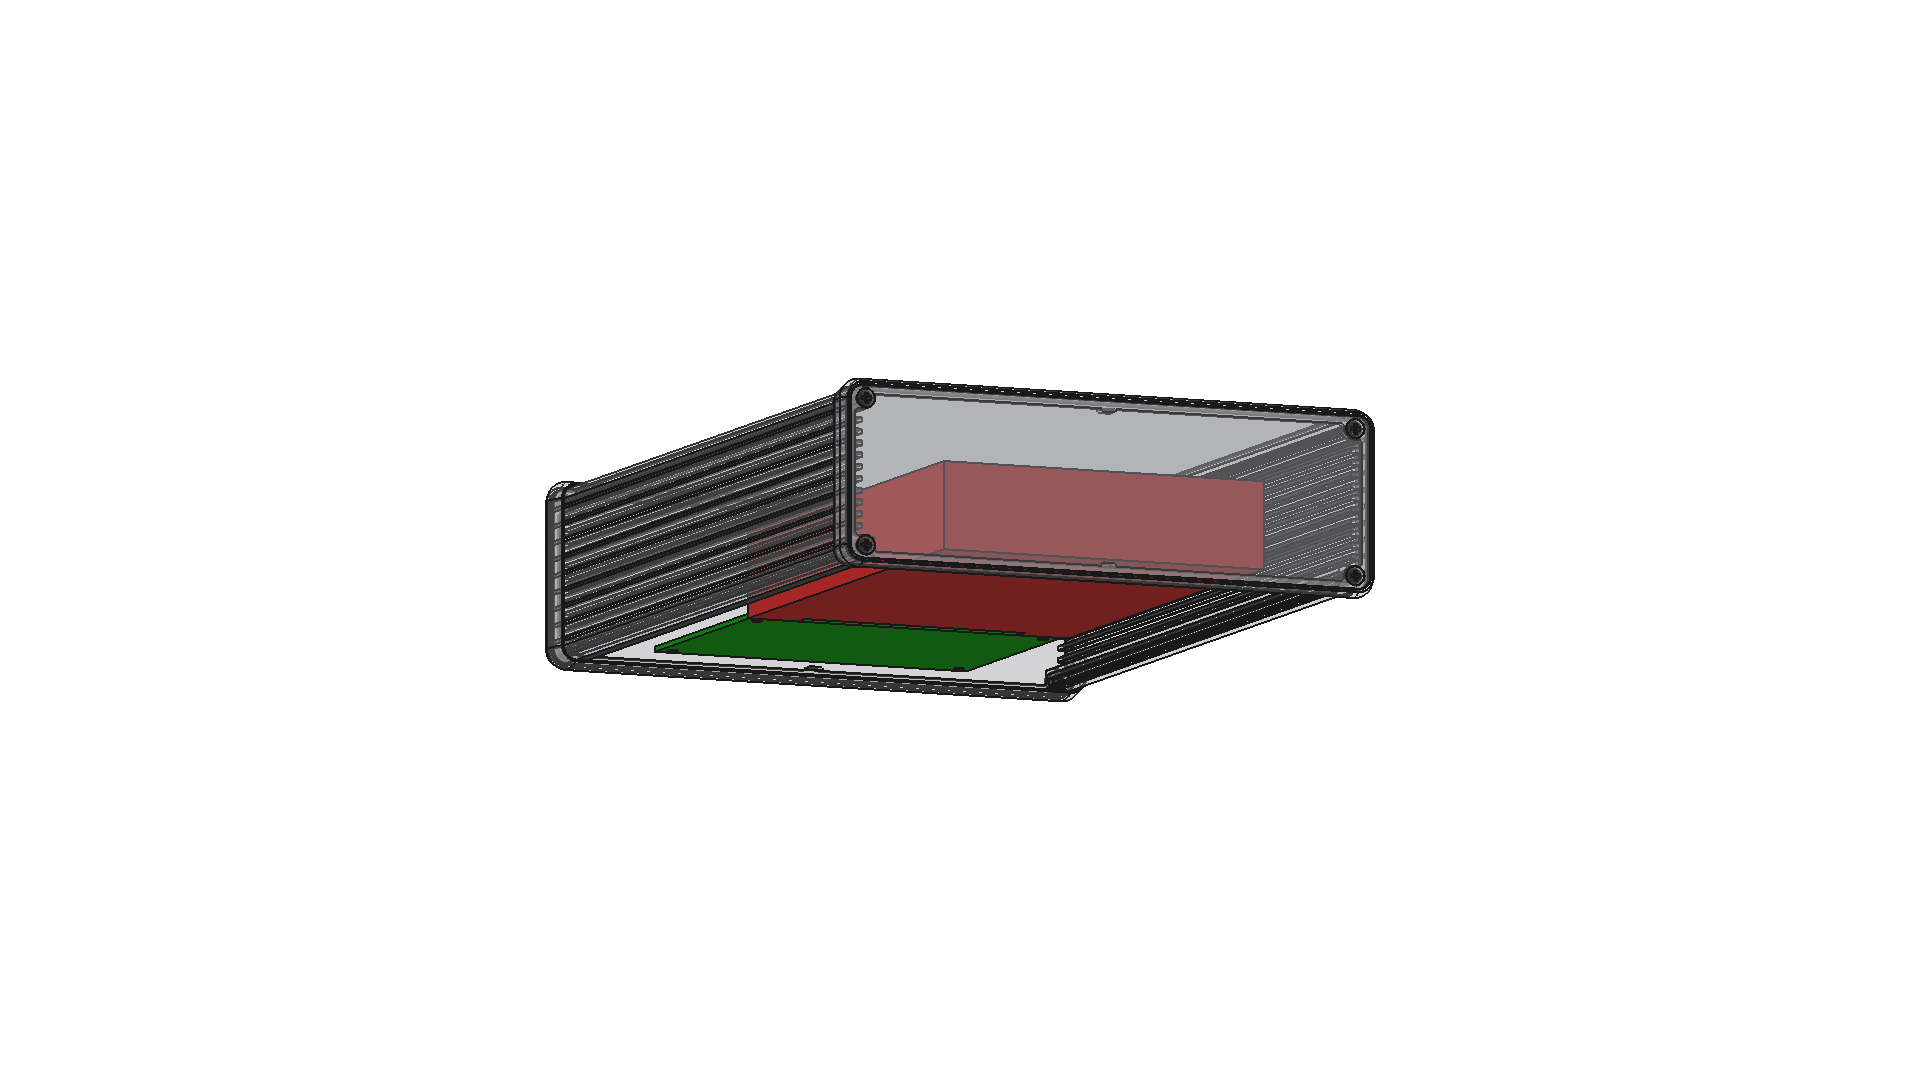
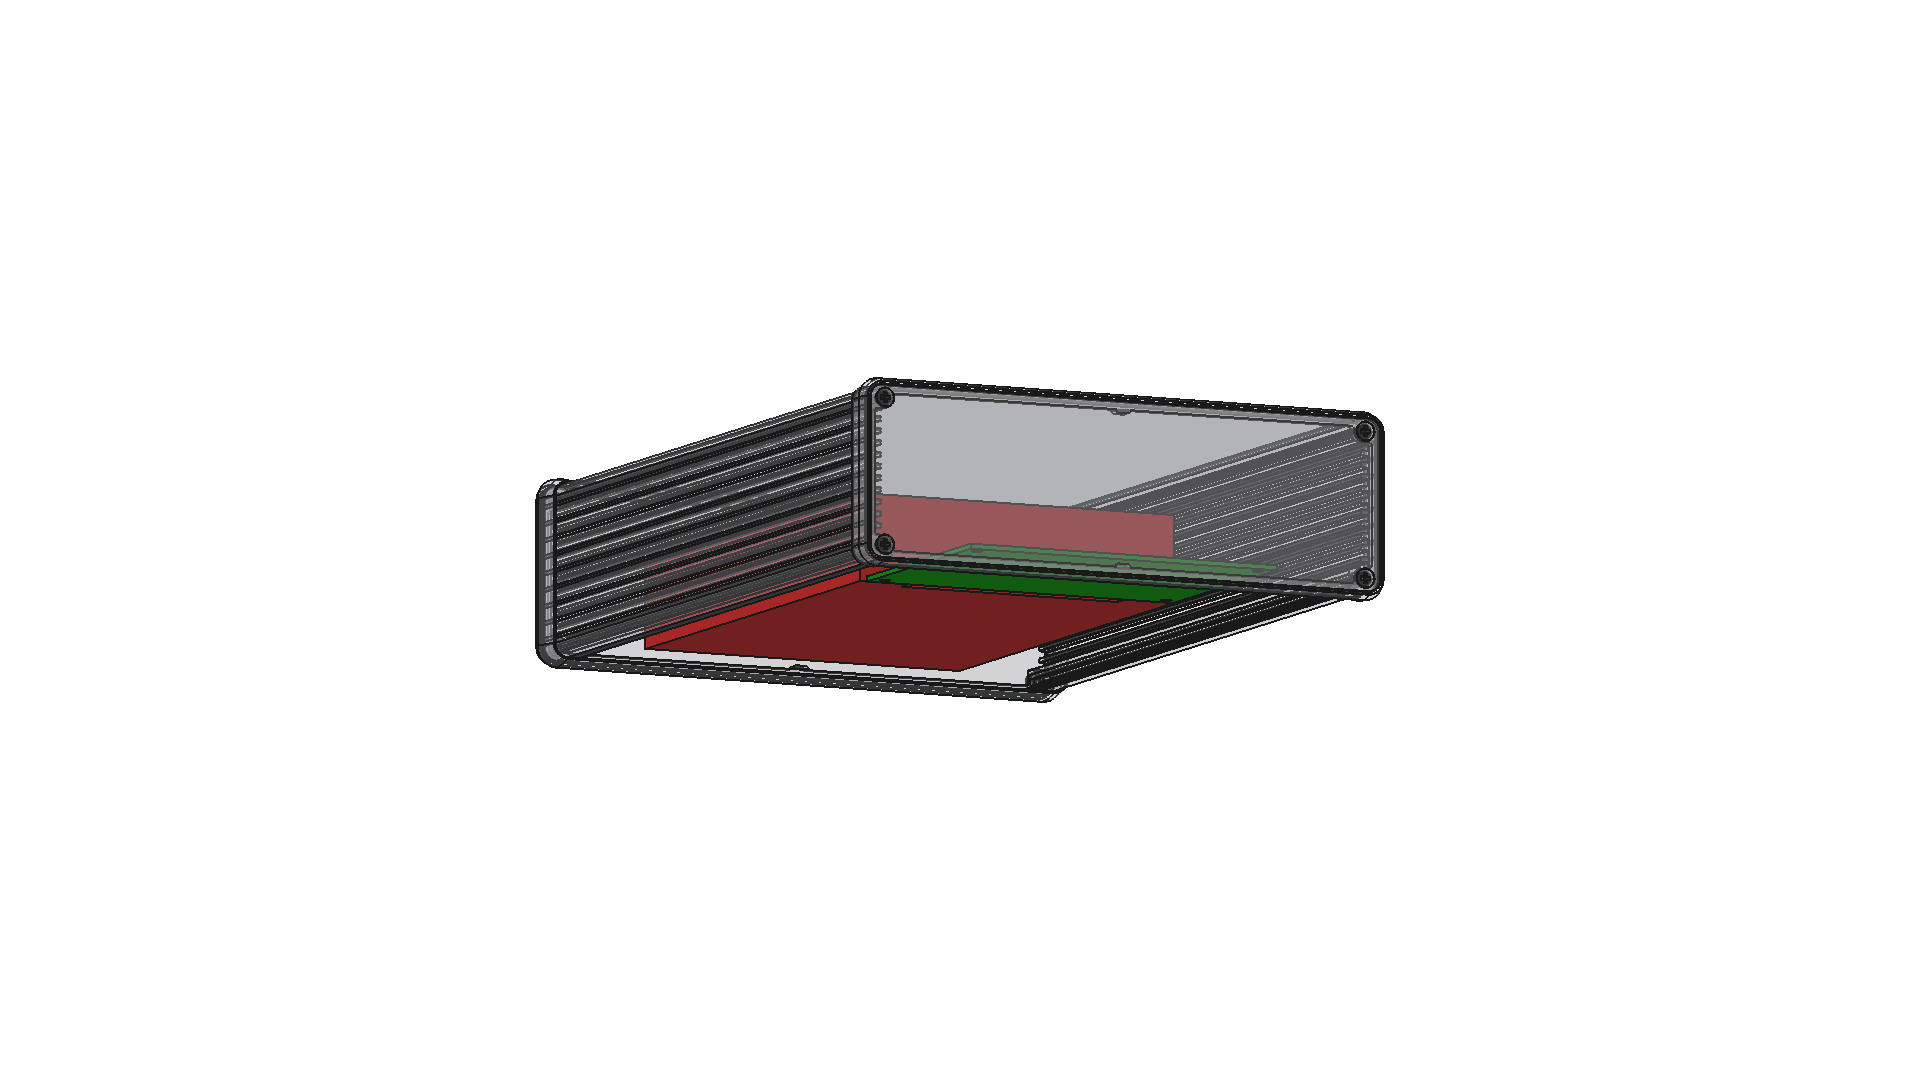
Assembly view: PCB in front, HDD behind

Changed region(s): [[0.2812, 0.3361, 0.7188, 0.6722]]

diff --git a/mechanical/screenshot.py b/mechanical/screenshot.py
@@ -44,7 +44,7 @@ view = FreeCADGui.ActiveDocument.ActiveView
 from pivy import coin
 cam = view.getCameraNode()
 rot = coin.SbRotation(coin.SbVec3f(1, 0, 0), 0.15)   # slight tilt from below
-rot *= coin.SbRotation(coin.SbVec3f(0, 1, 0), -0.4)   # rotate to 3/4 view
+rot *= coin.SbRotation(coin.SbVec3f(0, 1, 0), 2.7)    # rotate to see PCB side
 cam.orientation.setValue(rot)
 view.fitAll()
 
